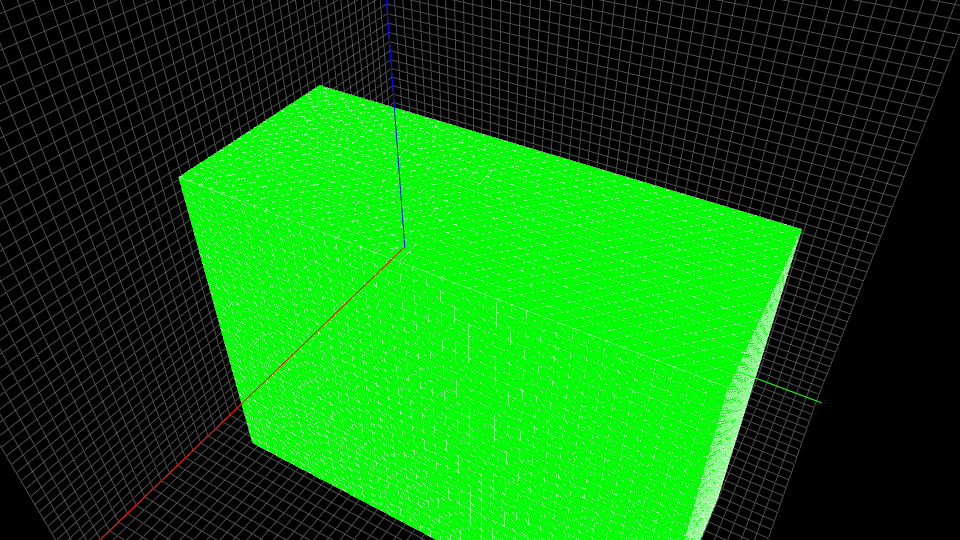
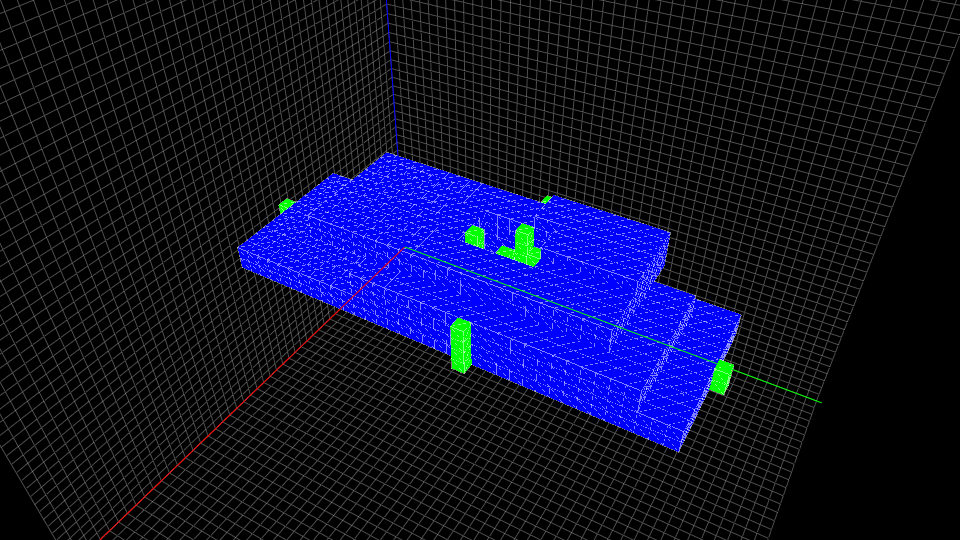
Fixes and additions to support functions

diff --git a/model_tools.py b/model_tools.py
@@ -121,7 +121,7 @@ def blur(base_model, threshold = 0.0):
 
     return new_model
 
-def dilate(base_model, radius, effect = 'overlap'):
+def dilate(base_model, radius, effect = 'overlap', plane = 'xyz'):
     # Initialize output arrays
     new_r = np.zeros_like(base_model).astype(float)
     new_g = np.zeros_like(base_model).astype(float)
@@ -133,17 +133,57 @@ def dilate(base_model, radius, effect = 'overlap'):
     y_len = len(base_model[:, 0, 0])
     z_len = len(base_model[0, :, 0])
 
-    for i in range(radius):
-        for x in range(1, x_len-1):
-            for y in range(1, y_len-1):
-                for z in range(1, z_len-1):
-                    new_r[y, z, x] = np.max(r[y-1:y+2, z-1:z+2, x-1:x+2])
-                    new_g[y, z, x] = np.max(g[y-1:y+2, z-1:z+2, x-1:x+2])
-                    new_b[y, z, x] = np.max(b[y-1:y+2, z-1:z+2, x-1:x+2])
+    if plane == 'xy':
+        for i in range(radius):
+            for x in range(1, x_len-1):
+                for y in range(1, y_len-1):
+                    for z in range(1, z_len-1):
+                        new_r[y, z, x] = np.max(r[y-1:y+2, z, x-1:x+2])
+                        new_g[y, z, x] = np.max(g[y-1:y+2, z, x-1:x+2])
+                        new_b[y, z, x] = np.max(b[y-1:y+2, z, x-1:x+2])
 
-        r = np.copy(new_r)
-        g = np.copy(new_g)
-        b = np.copy(new_b)
+            r = np.copy(new_r)
+            g = np.copy(new_g)
+            b = np.copy(new_b)
+
+    elif plane == 'xz':
+        for i in range(radius):
+            for x in range(1, x_len-1):
+                for y in range(1, y_len-1):
+                    for z in range(1, z_len-1):
+                        new_r[y, z, x] = np.max(r[y, z-1:z+2, x-1:x+2])
+                        new_g[y, z, x] = np.max(g[y, z-1:z+2, x-1:x+2])
+                        new_b[y, z, x] = np.max(b[y, z-1:z+2, x-1:x+2])
+
+            r = np.copy(new_r)
+            g = np.copy(new_g)
+            b = np.copy(new_b)
+
+    elif plane == 'yz':
+        for i in range(radius):
+            for x in range(1, x_len-1):
+                for y in range(1, y_len-1):
+                    for z in range(1, z_len-1):
+                        new_r[y, z, x] = np.max(r[y-1:y+2, z-1:z+2, x])
+                        new_g[y, z, x] = np.max(g[y-1:y+2, z-1:z+2, x])
+                        new_b[y, z, x] = np.max(b[y-1:y+2, z-1:z+2, x])
+
+            r = np.copy(new_r)
+            g = np.copy(new_g)
+            b = np.copy(new_b)
+
+    else:
+        for i in range(radius):
+            for x in range(1, x_len-1):
+                for y in range(1, y_len-1):
+                    for z in range(1, z_len-1):
+                        new_r[y, z, x] = np.max(r[y-1:y+2, z-1:z+2, x-1:x+2])
+                        new_g[y, z, x] = np.max(g[y-1:y+2, z-1:z+2, x-1:x+2])
+                        new_b[y, z, x] = np.max(b[y-1:y+2, z-1:z+2, x-1:x+2])
+
+            r = np.copy(new_r)
+            g = np.copy(new_g)
+            b = np.copy(new_b)
 
     if effect == 'blur':
         new_model_brightness = (r + g + b)
@@ -274,12 +314,6 @@ def keepout(base_model, method):
                 if np.sum(base_model[y, :, x]) > 0:
                     new_model[y, :, x] = np.ones(z_len)
 
-        for z in range(z_len-1, -1, -1):
-            if np.sum(base_model[:, z, :]) == 0:
-                new_model[:, z, :].fill(0)
-            else:
-                break
-
     elif method == 'mill':
         # Loop through model data
         for x in range(0, x_len):
@@ -321,7 +355,7 @@ def web(base_model, method, layer, r1=1, r2=1):
 
     return new_model
 
-def support(base_model, method, r1=1, r2=2):
+def support(base_model, method, r1=1, r2=1, plane = 'xy'):
     if method == 'mill':
         model_A = keepout(base_model, 'mill') * 2
 
@@ -329,10 +363,16 @@ def support(base_model, method, r1=1, r2=2):
         model_A = keepout(base_model, 'laser') * 2
 
     model_B = difference(model_A, base_model)
-    model_C = dilate(model_B, r1)
-    model_D = dilate(model_A, r2)
+    model_C = dilate(model_B, r1, plane = plane)
+    model_D = dilate(model_A, r2, plane = plane)
     model_E = difference(model_D, model_A)
     new_model = difference(model_E, model_C)
     new_model[new_model != 0] = 1
+
+    return new_model
+
+def merge_support(base_model, support_model, method, r1=1, r2=1, plane = 'xy'):
+    model_A = support(base_model, method, r1, r2, plane)
+    new_model = intersection(support_model, model_A)
 
     return new_model

diff --git a/Process-Algorithms/support.py b/Process-Algorithms/support.py
@@ -15,15 +15,20 @@ if __name__=='__main__':
 
     # Import model
     joint1 = model.import_vox('sample-object-1.vox')
+    support1 = model.import_vox('user-support-1.vox')
 
-    model1 = model.support(joint1, 'laser', 1, 2) * 5
+    support1 = model.merge_support(joint1, support1, 'laser')
+    #support1 = model.support(joint1, 'laser') * 21
+
+    web1 = model.web(joint1, 'laser', 23, 1, 5) * 21
+    support1 = model.union(model.isolate_layer(support1, 23), web1)
 
     # Initialize application 1
     app1, w1 = plot.prep()
 
     # Convert model to mesh data
-    #v, vc, t = mesh.create_from_model(model.union(joint1, model1))
-    v, vc, t = mesh.create_from_model(model1)
+    v, vc, t = mesh.create_from_model(model.union(joint1, support1))
+    #v, vc, t = mesh.create_from_model(model1)
 
     # Create mesh item and add to plot
     mi = plot.make_mi(v, t, vc, drawEdges = True)
